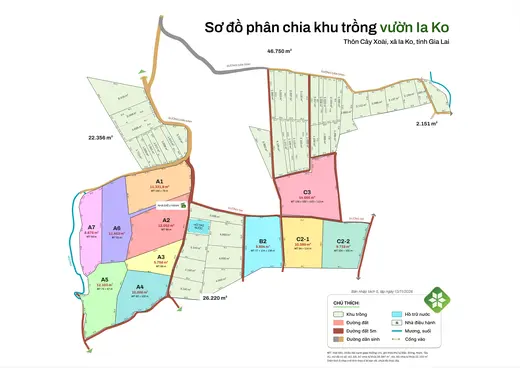
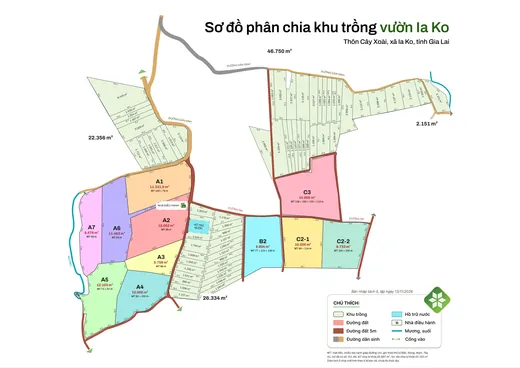
Bản đồ vườn: thêm bản tô màu theo block, cập nhật sơ đồ tách ô

diff --git a/ban-do-vuon/index.html b/ban-do-vuon/index.html
@@ -1075,20 +1075,22 @@ rrows.forEach((tr,i)=>{['pointerenter','focus'].forEach(ev=>tr.addEventListener(
    ===================================================================== */
 const STD='B2 9.804 m² (sổ), C2-1 10.000, C2-2 9.733, C3 14.565 m² (sổ).';
 const VERSIONS=[
- {id:'khu-a-giu-a3',t:'Khu A 5 ô, giữ ô A3 nhỏ',d:'13/11/2026 · sửa A1 17/11',tags:['Mới nhất'],
+ {id:'to-mau-block',t:'Tô màu theo block',d:'18/11/2026',tags:['Mới nhất'],
+  p:'Bản khu A 5 ô, tô màu từng ô B1, B2, C1 đến C5 theo sơ đồ vùng canh tác block. Khu A để trắng. Diện tích ô B1, C1, C4, C5 theo số liệu 18/11.',rows:null,fig:'1286:9'},
+ {id:'khu-a-giu-a3',t:'Khu A 5 ô, giữ ô A3 nhỏ',d:'13/11/2026 · ô B1, C1, C4 cập nhật 18/11',tags:[],
   p:'Bản phân ô dùng cho bản đồ tương tác. Khu A còn 5 ô: A1 theo sổ thửa 86, A2 theo sổ, A3 nhỏ cắt từ A2 cũ, A4 và A5 ước. Nét đen, số đỏ.',
-  rows:[['A1','11.331,9','140 + 78','Sổ, thửa 86'],['A2','12.052','99','Sổ'],['A3','5.758','88','Ước'],['A4','22.103','82 + 175 + 57','Sổ'],['A5','20.139','111','Ước']],pdf:1,fig:'1203:9'},
- {id:'khu-a-theo-so',t:'Khu A bán theo sổ sẵn',d:'13/11/2026 · sửa A1 17/11',tags:[],
+  rows:[['A1','11.331,9','140 + 78','Sổ, thửa 86'],['A2','12.052','99','Sổ'],['A3','5.758','88','Ước'],['A4','22.103','82 + 175 + 57','Sổ'],['A5','20.139','111','Ước']],fig:'1203:9'},
+ {id:'khu-a-theo-so',t:'Khu A bán theo sổ sẵn',d:'13/11/2026 · ô B1, C1, C4 cập nhật 18/11',tags:[],
   p:'Khu A giữ đúng 4 thửa đã có sổ, không chia thêm. A3 gộp phần tây thành một ô lớn.',
-  rows:[['A1','11.331,9','140 + 78','Sổ, thửa 86'],['A2','12.052','','Sổ'],['A3','25.897','','Ước'],['A4','22.103','','Sổ']],pdf:1,fig:'1201:9'},
- {id:'7-o-nen-trang',t:'Khu A 7 ô, nền trắng',d:'13/11/2026 · sửa A1 17/11',tags:['Đã rà nét'],
+  rows:[['A1','11.331,9','140 + 78','Sổ, thửa 86'],['A2','12.052','','Sổ'],['A3','25.897','','Ước'],['A4','22.103','','Sổ']],fig:'1201:9'},
+ {id:'7-o-nen-trang',t:'Khu A 7 ô, nền trắng',d:'13/11/2026 · ô B1, C1, C4 cập nhật 18/11',tags:['Đã rà nét'],
   p:'Bảy ô theo ranh sổ, mỗi ô khu A một màu, khu C màu lime. Đã rà nét và số đo.',
-  rows:[['A1','11.331,9','','Sổ'],['A2','12.052','','Sổ'],['A3','5.758','','Ước'],['A4','10.000','','Ước'],['A5','12.103','','Ước'],['A6','11.463','','Ước'],['A7','8.676','','Ước']],pdf:1,fig:'1194:9'},
- {id:'7-o-pastel',t:'Khu A 7 ô, màu pastel',d:'13/11/2026 · sửa A1 17/11',tags:['Chưa rà nét'],
-  p:'Cùng số liệu với bản nền trắng, màu pastel, có chỉnh tay của Zyk.',rows:null,pdf:1,fig:'1188:9'},
- {id:'o-1ha',t:'Chia ô tròn 1 ha',d:'13/11/2026 · sửa A1 17/11',tags:['Bản cũ','Chưa rà nét'],
-  p:'Bản đầu: chia khu A thành các ô quanh 1 ha. Có thêm bản chỉ sơ đồ và trang web cũ (bảng ô và câu hỏi cho anh Ninh).',
-  rows:[['A1','11.331,9','','Sổ'],['A2–A4','10.000 mỗi ô','',''],['A5','7.949','',''],['A6','12.103','',''],['A7','10.000','','']],pdf:1,fig:'1161:9',
+  rows:[['A1','11.331,9','','Sổ'],['A2','12.052','','Sổ'],['A3','5.758','','Ước'],['A4','10.000','','Ước'],['A5','12.103','','Ước'],['A6','11.463','','Ước'],['A7','8.676','','Ước']],fig:'1194:9'},
+ {id:'7-o-pastel',t:'Khu A 7 ô, màu pastel',d:'13/11/2026 · ô B1, C1, C4 cập nhật 18/11',tags:['Chưa rà nét'],
+  p:'Cùng số liệu với bản nền trắng, màu pastel, có chỉnh tay của Zyk.',rows:null,fig:'1188:9'},
+ {id:'o-1ha',t:'Chia ô tròn 1 ha',d:'13/11/2026 · ô B1, C1, C4 cập nhật 18/11',tags:['Bản cũ','Chưa rà nét'],
+  p:'Bản đầu: chia khu A thành các ô quanh 1 ha. Có thêm trang web cũ (bảng ô và câu hỏi cho anh Ninh).',
+  rows:[['A1','11.331,9','','Sổ'],['A2–A4','10.000 mỗi ô','',''],['A5','7.949','',''],['A6','12.103','',''],['A7','10.000','','']],fig:'1161:9',
   more:[['Trang cũ (bảng + câu hỏi)','o-1ha.html']]},
  {id:'gui-xa',t:'Bản gửi xã, đầy đủ',d:'17/11/2026',tags:['Gửi xã'],
   p:'Sơ đồ toàn khu gửi xã Ia Ko, ranh A-1 đã vẽ lại theo sổ (9 cạnh).',rows:null,pdf:1,fig:'1114:10'},
